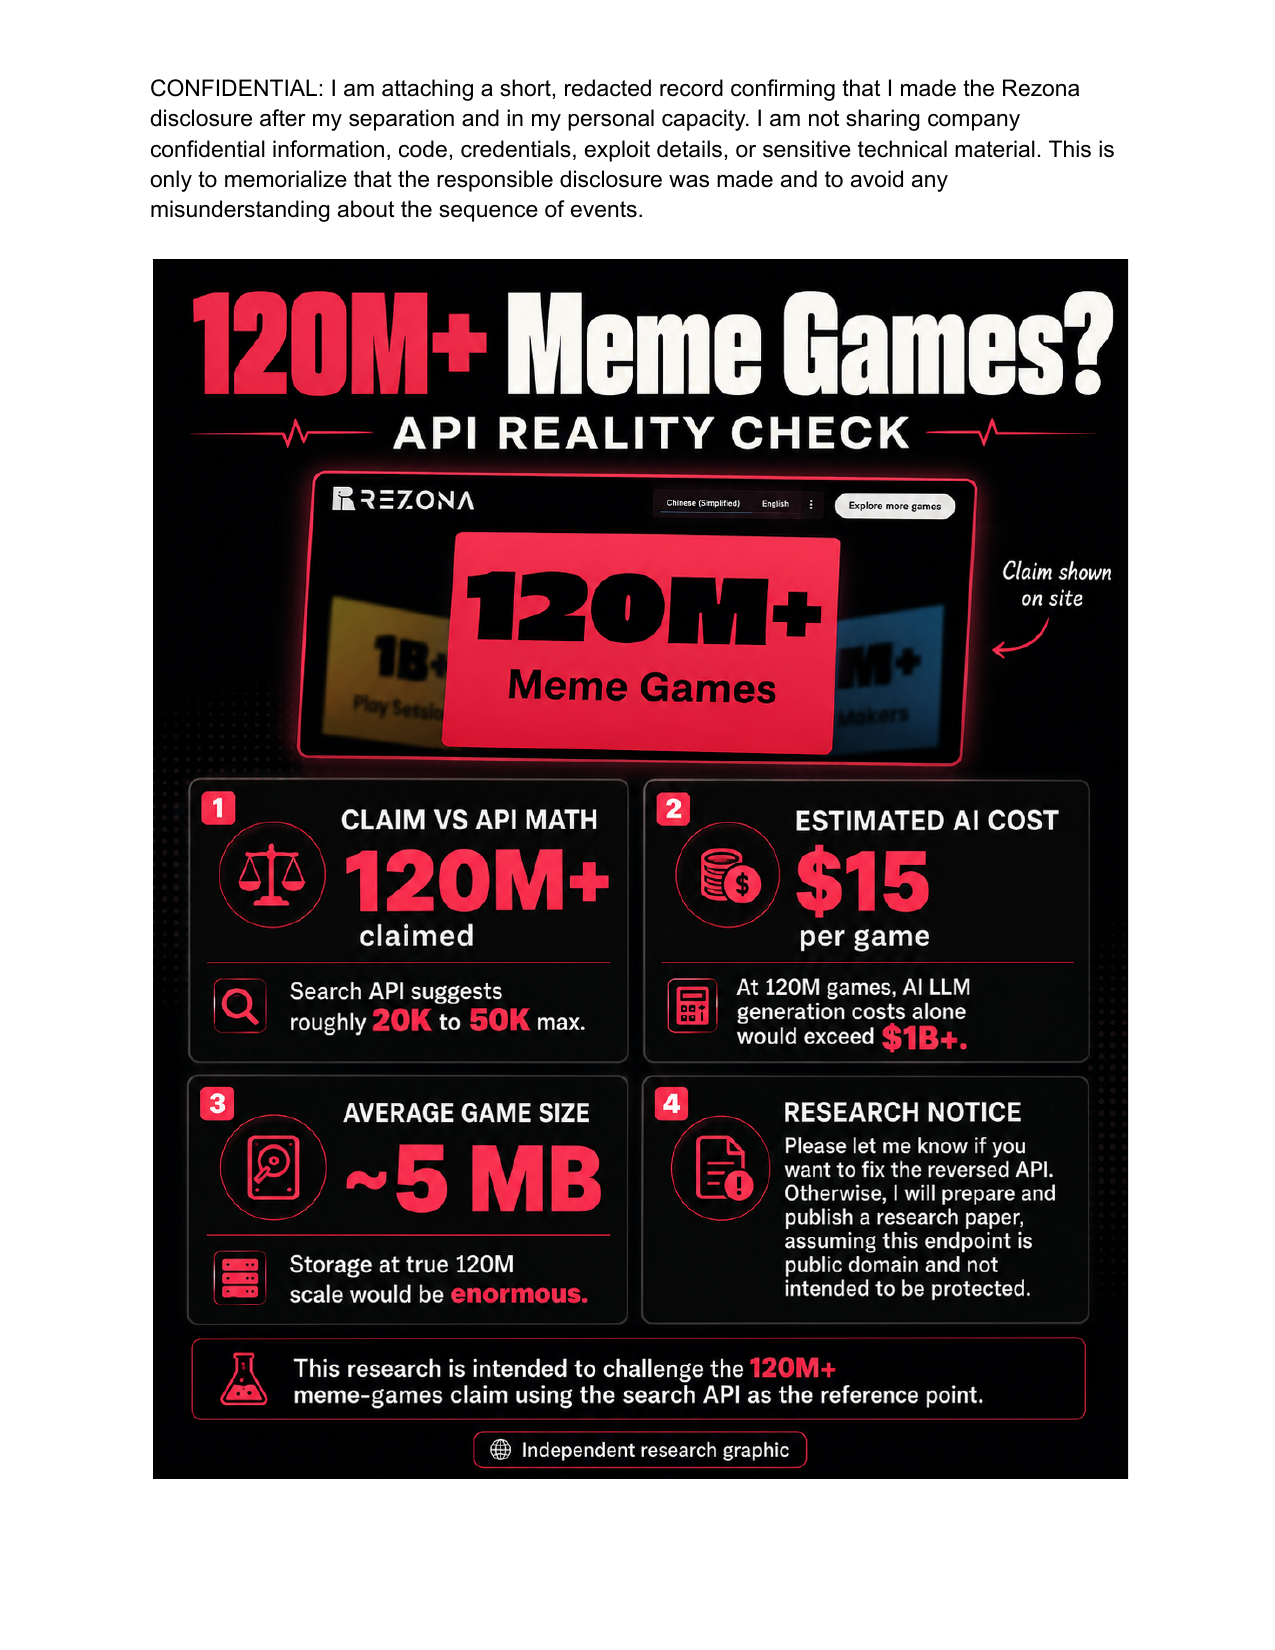
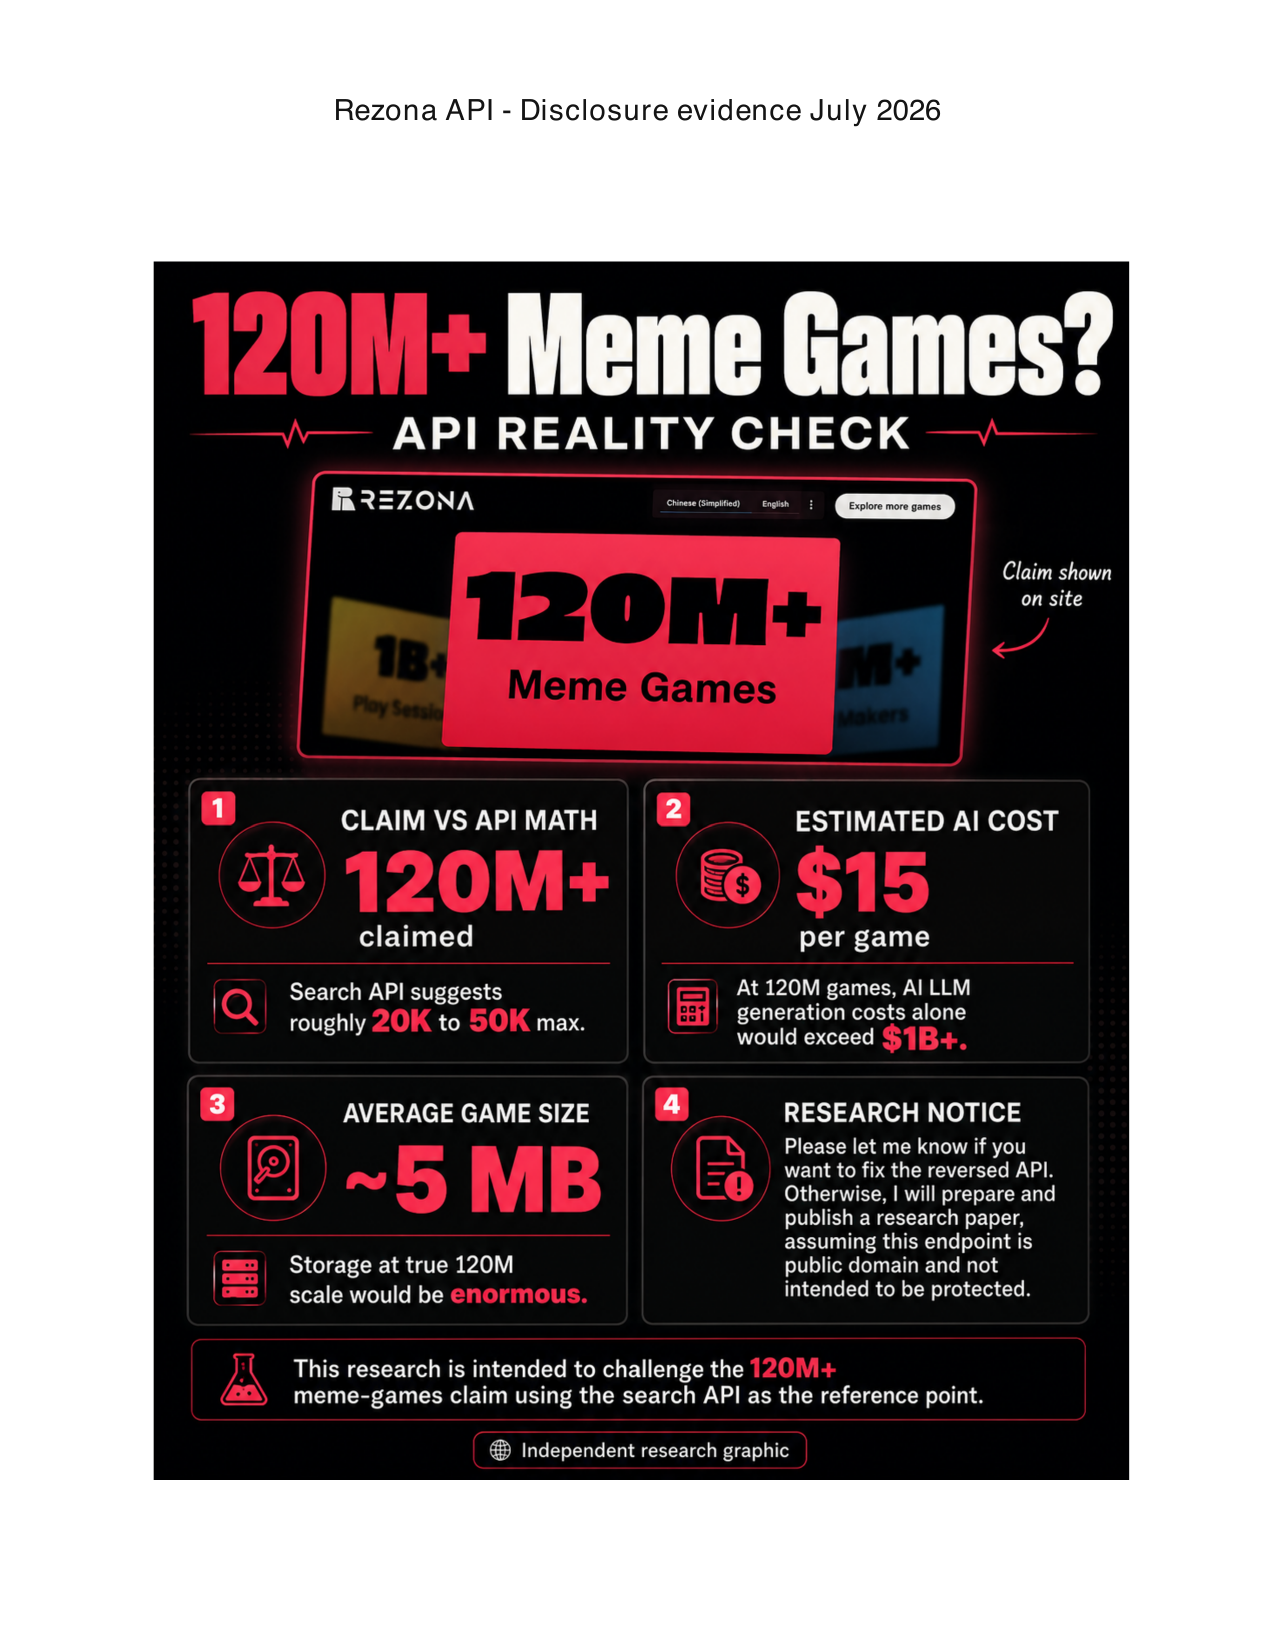
Refresh disclosure preview heading

diff --git a/docs/index.html b/docs/index.html
@@ -154,7 +154,7 @@
         <h2>Historical context, carefully attributed.</h2>
         <div class="note">The linked disclosure is an author-provided historical record of a disclosure made to Rezona. It documents context; it is not independent verification of every historical statement or a legal conclusion about source-data rights.</div>
         <p><a href="disclosure/rezona-api-accessibility-disclosure.pdf">Read the disclosure PDF</a> · <a href="data/NOTICE.md">Source-data notice and correction process</a></p>
-        <img class="notice" src="assets/disclosure/research-notice.png" alt="Research notice graphic reproduced from the author-provided disclosure">
+        <img class="notice" src="assets/disclosure/research-notice.png" alt="Page from the author-provided disclosure headed Rezona API - Disclosure evidence July 2026">
       </section>
       <section>
         <div class="eyebrow">Responsible reuse</div>
